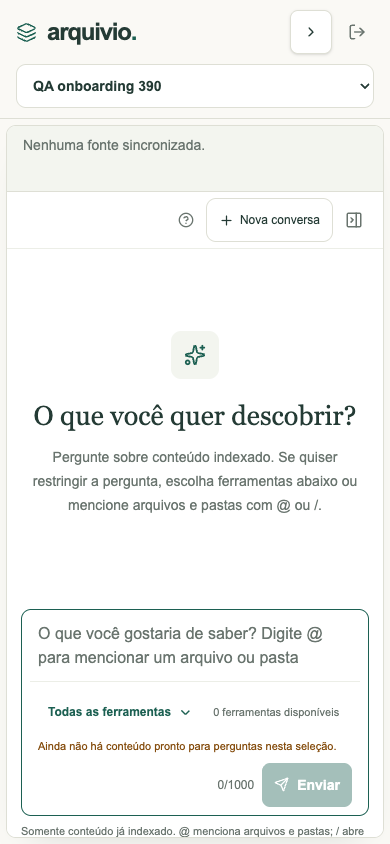
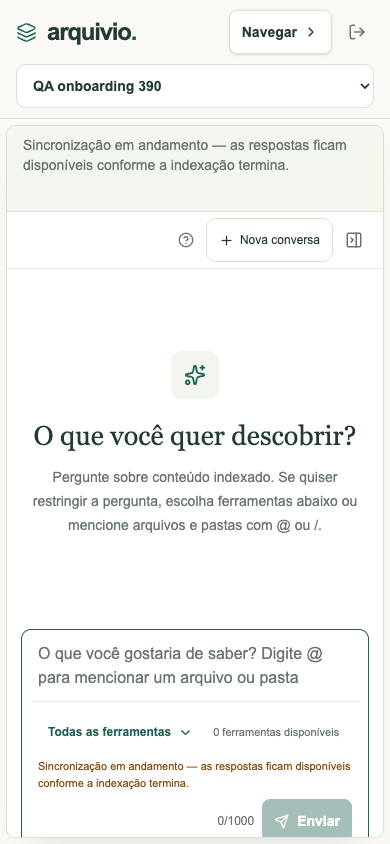
fix(chat): F-005 — indicar sincronização pendente sem fontes

diff --git a/frontend/app/product-app.tsx b/frontend/app/product-app.tsx
@@ -13,7 +13,7 @@ import { AnswerMarkdown } from "./answer-markdown";
 import "./chat-workspace.css";
 import "./product-layout.css";
 import { Brand } from "./brand";
-import { QuestionScopePicker, contextReady, toolLabel, providerKey, type QuestionContext } from "./question-scope";
+import { QuestionScopePicker, SYNC_PENDING_MESSAGE, contextReady, toolLabel, providerKey, type QuestionContext } from "./question-scope";
 import { MentionComposer, type MentionCandidate } from "./mention-composer";
 import { mentionSummary } from "./mention-label";
 import { newSpaceOptions } from "./new-space-options";
@@ -544,6 +544,7 @@ function ConversationLibraryWorkspace({ company, onConnect, onShowTour, setError
   const current = path.at(-1);
   const canManage = company.role !== "member";
   const mentionsOutsideSelection = mentions.filter((item) => !allTools && !queryProviders.includes(providerKey(item.source_provider)));
+  const syncInProgress = syncs.some((item) => item.status === "queued" || item.status === "syncing");
   const canAsk = !restoringConversation && !contextLoading && !contextError && mentionsOutsideSelection.length === 0 && (allTools || queryProviders.length > 0) && contexts.some((item) => contextReady(item) && (allTools || queryProviders.includes(providerKey(item.source_provider))));
 
   const loadLibrary = useCallback(() => {
@@ -721,7 +722,7 @@ function ConversationLibraryWorkspace({ company, onConnect, onShowTour, setError
     <div className={`grid workspace-panels${filesPanelOpen ? "" : " files-panel-collapsed"}`}>
       <aside id="library-sources" className="sources-panel border-b border-line bg-sage xl:border-b-0 xl:border-r">
         <LibrarySidebarHeader canManage={canManage} onConnect={onConnect} onRefresh={loadLibrary} /><LibraryBreadcrumbs path={path} onOpenPath={openPath} />
-        <div className="max-h-72 overflow-y-auto px-2 pb-4 xl:max-h-[calc(100vh-20rem)]">{libraryLoading ? <LoadingIndicator label="Abrindo biblioteca…" className="px-2 py-5 text-sm text-muted-foreground" /> : libraryError ? <div role="alert" className="px-3 py-5 text-sm text-rose-700">{libraryError}<button onClick={loadLibrary} className="mt-2 block font-semibold underline">Tentar novamente</button></div> : items.length === 0 ? <div className="px-2 py-5 text-sm text-muted-foreground"><HardDrive size={18} className="mb-2 text-primary" />{current ? "Esta pasta ainda não possui itens." : "Nenhuma fonte sincronizada."}</div> : items.map((item) => <div key={item.id} className="group flex items-center rounded-md hover:bg-white"><button onClick={() => openItem(item)} className="flex min-w-0 flex-1 items-center gap-2 px-2.5 py-2 text-left text-sm"><span className={`grid size-7 shrink-0 place-items-center rounded-lg ${item.kind === "file" ? "bg-sage-selected text-muted-foreground" : "bg-sage-selected text-primary"}`}><LibraryNodeIcon item={item} size={14} /></span><span className="min-w-0 flex-1 truncate font-medium text-ink">{item.name}</span>{item.kind !== "file" && <ChevronRight size={14} className="text-muted-foreground" />}</button>{canManage && item.kind === "file" && (item.workspace_documents?.length ?? 0) > 0 && <button onClick={() => manageFile(item)} className="mr-1 rounded-lg p-2 text-muted-foreground hover:bg-sage hover:text-ink" aria-label={`Gerenciar ${item.name}`} title="Gerenciar arquivo"><Settings2 size={15} /></button>}</div>)}</div>
+        <div className="max-h-72 overflow-y-auto px-2 pb-4 xl:max-h-[calc(100vh-20rem)]">{libraryLoading ? <LoadingIndicator label="Abrindo biblioteca…" className="px-2 py-5 text-sm text-muted-foreground" /> : libraryError ? <div role="alert" className="px-3 py-5 text-sm text-rose-700">{libraryError}<button onClick={loadLibrary} className="mt-2 block font-semibold underline">Tentar novamente</button></div> : items.length === 0 ? <div className="px-2 py-5 text-sm text-muted-foreground"><HardDrive size={18} className="mb-2 text-primary" />{current ? "Esta pasta ainda não possui itens." : syncInProgress ? SYNC_PENDING_MESSAGE : "Nenhuma fonte sincronizada."}</div> : items.map((item) => <div key={item.id} className="group flex items-center rounded-md hover:bg-white"><button onClick={() => openItem(item)} className="flex min-w-0 flex-1 items-center gap-2 px-2.5 py-2 text-left text-sm"><span className={`grid size-7 shrink-0 place-items-center rounded-lg ${item.kind === "file" ? "bg-sage-selected text-muted-foreground" : "bg-sage-selected text-primary"}`}><LibraryNodeIcon item={item} size={14} /></span><span className="min-w-0 flex-1 truncate font-medium text-ink">{item.name}</span>{item.kind !== "file" && <ChevronRight size={14} className="text-muted-foreground" />}</button>{canManage && item.kind === "file" && (item.workspace_documents?.length ?? 0) > 0 && <button onClick={() => manageFile(item)} className="mr-1 rounded-lg p-2 text-muted-foreground hover:bg-sage hover:text-ink" aria-label={`Gerenciar ${item.name}`} title="Gerenciar arquivo"><Settings2 size={15} /></button>}</div>)}</div>
         {pagination && pagination.pages > 1 && <Pagination value={pagination} loading={libraryLoading} onChange={setPage} />}
         <p className="sources-scope flex gap-2 px-4 py-5 text-xs leading-5 text-muted-foreground"><ShieldCheck size={16} className="shrink-0 text-primary" />A conversa usa somente as ferramentas e menções selecionadas na mensagem.</p>
       </aside>
@@ -732,7 +733,7 @@ function ConversationLibraryWorkspace({ company, onConnect, onShowTour, setError
           <div className="rounded-lg border border-line bg-white p-2 shadow-sm focus-within:border-primary focus-within:ring-2 focus-within:ring-sage-selected">
             <MentionComposer organizationId={company.id} value={question} onChange={setQuestion} mentions={mentions} onMentionsChange={setMentions} all={allTools} providers={queryProviders} disabled={asking || restoringConversation} textareaRef={composerRef} onSubmit={() => composerRef.current?.form?.requestSubmit()} />
             <div className="composer-toolbar flex items-center justify-between gap-2 border-t border-line-soft px-2 pt-2">
-              <div data-tour="tools"><QuestionScopePicker all={allTools} providers={queryProviders} contexts={contexts} loading={contextLoading} disabled={asking} error={contextError} onRetry={loadOperations} onChange={(all, providers) => { setAllTools(all); setQueryProviders(providers); }} /></div>
+              <div data-tour="tools"><QuestionScopePicker syncInProgress={syncInProgress} all={allTools} providers={queryProviders} contexts={contexts} loading={contextLoading} disabled={asking} error={contextError} onRetry={loadOperations} onChange={(all, providers) => { setAllTools(all); setQueryProviders(providers); }} /></div>
               <div className="flex shrink-0 items-center gap-2"><span className="text-xs text-muted-foreground">{question.length}/1000</span><button disabled={!canAsk || !question.trim() || asking} className="inline-flex min-h-11 items-center gap-2 rounded-md bg-primary px-3 py-2 text-sm font-semibold text-white hover:bg-forest-hover disabled:cursor-not-allowed disabled:opacity-40">{asking ? <RefreshCw size={15} className="motion-safe:animate-spin" aria-hidden="true" /> : <Send size={15} />}{asking ? "Consultando…" : "Enviar"}</button></div>
             </div>
           </div>

diff --git a/frontend/app/question-scope.tsx b/frontend/app/question-scope.tsx
@@ -15,7 +15,10 @@ export const toolLabel = (provider?: string | null) => ({
 })[provider ?? ""] ?? (provider ? provider.replaceAll("_", " ") : "Fonte indexada");
 export const contextReady = (context: QuestionContext) => context.query_status === "ready" && (context.status === "ready" || context.status === "partial_failure");
 
-export function QuestionScopePicker({ all, providers, contexts, loading, disabled, error, onRetry, onChange }: {
+export const SYNC_PENDING_MESSAGE = "Sincronização em andamento — as respostas ficam disponíveis conforme a indexação termina.";
+
+export function QuestionScopePicker({ syncInProgress = false, all, providers, contexts, loading, disabled, error, onRetry, onChange }: {
+  syncInProgress?: boolean;
   all: boolean; providers: string[]; contexts: QuestionContext[];
   loading: boolean; disabled: boolean; error: string | null; onRetry: () => void;
   onChange: (all: boolean, providers: string[]) => void;
@@ -45,6 +48,6 @@ export function QuestionScopePicker({ all, providers, contexts, loading, disable
     </div>}
     <span className="question-scope-count" aria-live="polite">{readyTools} {readyTools === 1 ? "ferramenta disponível" : "ferramentas disponíveis"}</span>
     {error && <div role="alert" className="question-scope-warning">{error} <button type="button" onClick={onRetry}>Tentar novamente</button></div>}
-    {!loading && !error && (ready === 0 || pending > 0) && <p className="question-scope-warning">{ready === 0 ? "Ainda não há conteúdo pronto para perguntas nesta seleção." : `Cobertura parcial: ${pending} ${pending === 1 ? "pasta indisponível" : "pastas indisponíveis"}.`}</p>}
+    {!loading && !error && (ready === 0 || pending > 0) && <p className="question-scope-warning">{ready === 0 ? syncInProgress ? SYNC_PENDING_MESSAGE : "Ainda não há conteúdo pronto para perguntas nesta seleção." : `Cobertura parcial: ${pending} ${pending === 1 ? "pasta indisponível" : "pastas indisponíveis"}.`}</p>}
   </div>;
 }
